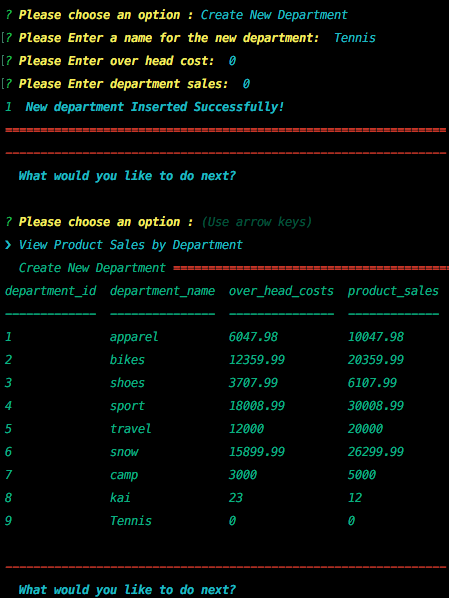
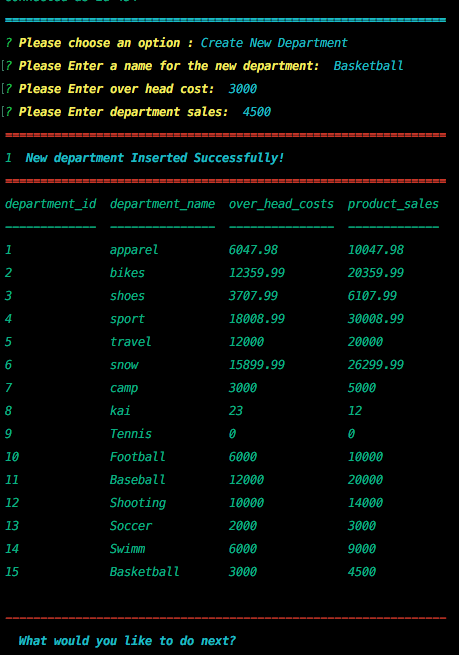
Bamazon

Changed region(s): [[0.0, 0.0, 1.0, 0.903], [0.0, 0.9331, 0.9978, 1.0]]

diff --git a/bamazonSupervisor.js b/bamazonSupervisor.js
@@ -18,6 +18,7 @@ connection.connect(function(err) {
     if (err) throw err;
     console.log("connected as id " + connection.threadId);
     console.log("===============================================================".cyan);
+    
     starter();
 });
 //====================== Ens of connection.connect =======================================
@@ -78,12 +79,9 @@ function addNewDep(){
         },
         function(err, res) {
             if (err) throw err;
-            console.log(res.affectedRows + "  New department Inserted Successfully!".cyan.bold.italic);
             console.log("===============================================================".red);
+            console.log(res.affectedRows + "  New department Inserted Successfully!".cyan.bold.italic);
             viewDepartments();
-            console.log("---------------------------------------------------------------".red);
-            console.log("  What would you like to do next?\n".bold.italic.cyan);
-            starter();
         });
      });
 }
